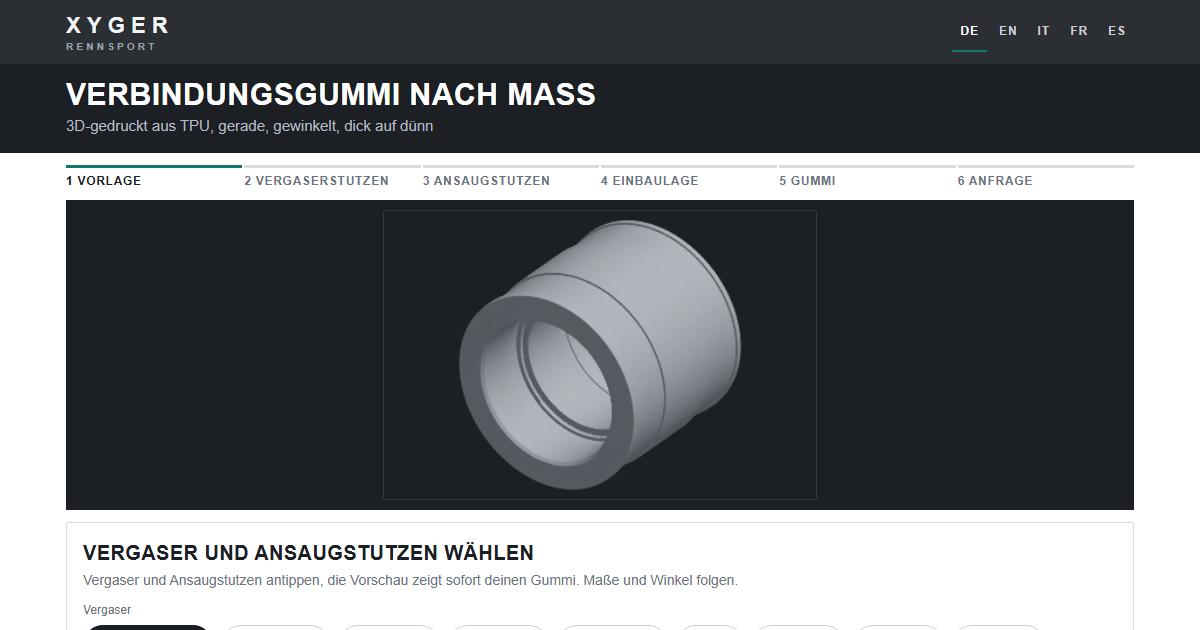
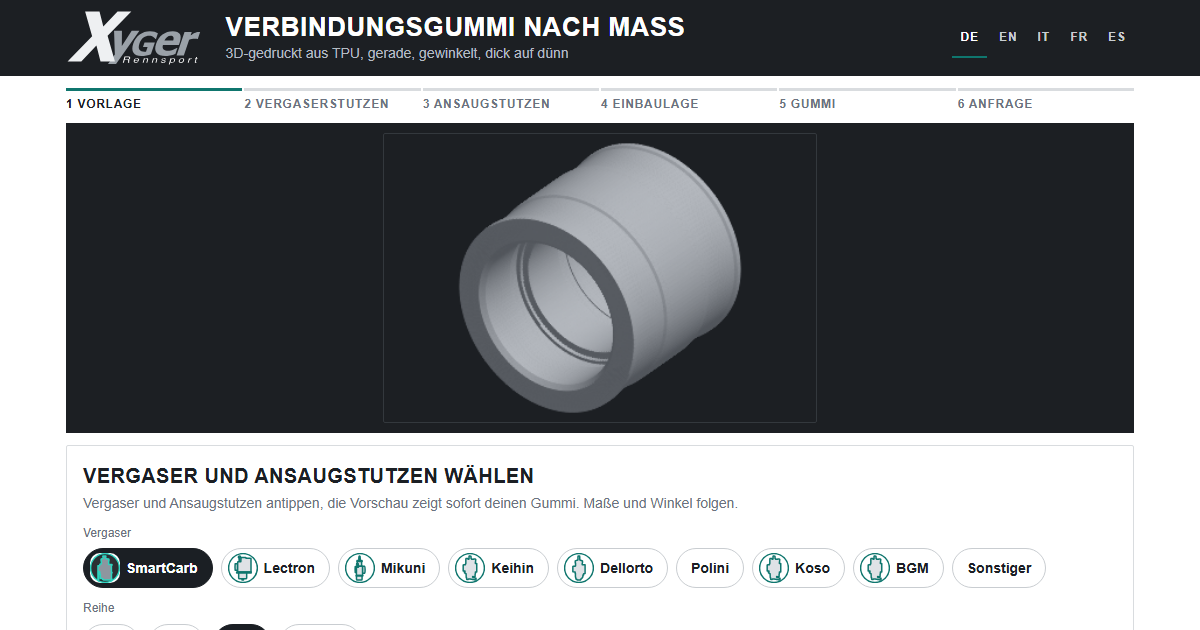
Konfigurator v0.9.2

diff --git a/index.html b/index.html
@@ -2,7 +2,7 @@
 <html lang="de">
 <head>
 <meta charset="utf-8">
-<meta http-equiv="Content-Security-Policy" content="default-src 'none'; script-src 'sha256-vga0Qbs3kaFVj6at8ka0Zfz+H+jQM6mNUO3aztB4lKg='; style-src 'unsafe-inline'; img-src 'self' data: blob:; connect-src 'none'; font-src 'none'; object-src 'none'; base-uri 'none'; form-action 'none'; manifest-src 'none'">
+<meta http-equiv="Content-Security-Policy" content="default-src 'none'; script-src 'sha256-l+T1MfnZsKEYd0gBcOxUXVGedtwf+xFLi9V3k8qSGuo='; style-src 'unsafe-inline'; img-src 'self' data: blob:; connect-src 'none'; font-src 'none'; object-src 'none'; base-uri 'none'; form-action 'none'; manifest-src 'none'">
 <meta name="referrer" content="no-referrer">
 <meta name="viewport" content="width=device-width, initial-scale=1">
 <meta name="robots" content="index, follow">
@@ -13,7 +13,7 @@
 <meta property="og:description" content="Verbindungsgummi nach Maß aus TPU für SmartCarb, Mikuni, Keihin, Lectron und Dellorto. Gerade, gewinkelt, dick auf dünn. Online konfigurieren mit 3D-Vorschau."><meta property="og:image" content="https://polinizei.github.io/ansauggummi/og.png"><meta property="og:locale" content="de_DE">
 <meta name="twitter:card" content="summary_large_image">
 <script type="application/ld+json">[{"@context": "https://schema.org", "@type": "Service", "name": "Verbindungsgummi nach Maß", "serviceType": "3D-gedruckter Vergaser-Verbindungsgummi aus TPU", "provider": {"@type": "Organization", "name": "Xyger Rennsport"}, "areaServed": "Europe", "url": "https://polinizei.github.io/ansauggummi/", "description": "Verbindungsgummi nach Maß aus TPU für SmartCarb, Mikuni, Keihin, Lectron und Dellorto. Gerade, gewinkelt, dick auf dünn. Online konfigurieren mit 3D-Vorschau.", "audience": {"@type": "Audience", "audienceType": "Zweitakt- und Vespa-Tuning"}}, {"@context": "https://schema.org", "@type": "FAQPage", "mainEntity": [{"@type": "Question", "name": "Was ist ein Verbindungsgummi?", "acceptedAnswer": {"@type": "Answer", "text": "Auch Vergasergummi oder Ansaugmanschette genannt. Er verbindet den Vergaser mit dem Ansaugstutzen des Motors und dichtet gegen Nebenluft ab."}}, {"@type": "Question", "name": "Warum TPU statt Gummi?", "acceptedAnswer": {"@type": "Answer", "text": "TPU ist flexibel, kraftstoffbeständig und lässt sich exakt nach deinen Maßen drucken, auch mit Winkel und Übergang von dick auf dünn."}}, {"@type": "Question", "name": "Passt das für SmartCarb auf Quattrini M200S?", "acceptedAnswer": {"@type": "Answer", "text": "Ja, diese Paarung ist im Konfigurator voreingestellt. Du misst nur, was abweicht."}}, {"@type": "Question", "name": "Welche Winkel sind möglich?", "acceptedAnswer": {"@type": "Answer", "text": "Gerade, 7,5°, 19° oder frei bis 40°. Größere Winkel nur mit Stützmaterial im Druck."}}, {"@type": "Question", "name": "Was brauche ich zum Messen?", "acceptedAnswer": {"@type": "Answer", "text": "Einen Messschieber. Außen-Ø, Stutzenlänge sowie Lage, Breite und Tiefe der Nut, jeweils auf 0,1 mm."}}]}]</script>
-<!-- XAG Konfigurator v0.9.0 | 2026-10-15 | _personal/xyger/ansauggummi/konfigurator.html -->
+<!-- XAG Konfigurator v0.9.2 | 2026-10-15 | _personal/xyger/ansauggummi/konfigurator.html -->
 <style>
   :root{
     --bg:#f4f5f7; --card:#ffffff; --ink:#1b1f24; --muted:#6b7280; --line:#e2e5ea;
@@ -76,15 +76,17 @@
   .preview.m-stamp svg{margin:0}
   .preview.m-stamp #c3d{cursor:zoom-in}
   #c3dClose{position:absolute;top:12px;right:6px;z-index:3;min-height:32px;padding:4px 12px}
-  @media(min-width:900px){ .preview.m-duo{grid-template-columns:minmax(0,1fr)} .preview.m-start #c3d,.preview.m-big #c3d{width:100%} .preview.m-stamp{grid-template-columns:minmax(0,1fr) 20%} #c3dClose{top:6px} }
+  @media(min-width:900px) and (max-width:1279px){ .preview.m-duo{grid-template-columns:minmax(0,1fr)} }
+  @media(min-width:1280px){ html body .wrap, html body .bar .in, html body .band .in{max-width:1500px} html body .wrap:has(.preview.m-duo){grid-template-columns:minmax(0,420px) minmax(0,1fr)} }   /* breit: Formular, Schnitt, 3D nebeneinander */
+  @media(min-width:900px){ .preview.m-start #c3d,.preview.m-big #c3d{width:100%} .preview.m-stamp{grid-template-columns:minmax(0,1fr) 20%} #c3dClose{top:6px} }
 
   /* ---------- Layout v0.9.0: dunkler Kopf, Bühne, eckig, schmale fette Schrift, Pillen, ein Akzent ---------- */
   :root{ --bar:#2b2f33; --bar-ink:#f2f3f4; --stage:#1c1f23; --bg:#ffffff; --card:#ffffff; --line:#d9dcdf; --fill:#dfe2e6; }
   body{ font-family:"Roboto Condensed","Arial Narrow",system-ui,sans-serif; font-stretch:condensed; padding-bottom:0; }
   .bar{ background:var(--bar); color:var(--bar-ink); position:sticky; top:0; z-index:10 }
   .bar .in{ max-width:1100px; margin:0 auto; padding:0 16px; height:64px; display:flex; align-items:center; justify-content:space-between }
-  .brand{ font-weight:700; font-size:22px; letter-spacing:.28em; text-transform:uppercase }
-  .brand small{ display:block; font-size:10px; letter-spacing:.32em; color:#9aa1a8; font-weight:600; margin-top:-2px }
+  .brand svg{ display:block; height:56px; width:auto; max-width:none; margin:0; background:none; border-radius:0 }   /* Logo Xyger Rennsport, helle Variante aus Xyger Rennsport_Final.pdf */
+  @media(max-width:899px){ .brand svg{ height:46px } }
   .bar .lang button{ background:transparent; border:0; color:#c9cdd1; font-weight:700; letter-spacing:.08em; min-height:40px; border-radius:0; border-bottom:2px solid transparent }
   .bar .lang button[aria-pressed="true"]{ color:#fff; background:transparent; border-bottom-color:var(--accent) }
   .band{ background:var(--stage); color:#fff; }
@@ -122,12 +124,18 @@
   .seo details{border-top:1px solid var(--line);padding:8px 0} .seo summary{cursor:pointer;font-weight:700;color:var(--ink)} .seo details p{margin:6px 0 0}
   .summary{overflow-wrap:anywhere}
   @media(min-width:900px){ .wrap:has(#preview[hidden]) .card, .wrap:has(#preview[hidden]) .nav{ grid-column:1/-1; width:100%; max-width:760px } }   /* Schritt 6 ohne Vorschau: volle Breite */
+  /* Kopf v0.9.2: ein dunkler Balken mit Logo, Titel und Sprachen */
+  .bar{ background:var(--stage); position:static }
+  .bar .in{ height:auto; min-height:76px; padding:8px 16px; gap:24px; flex-wrap:wrap }
+  .bar .head{ flex:1 1 300px; min-width:0 }
+  .bar .head h1{ font-size:26px; line-height:1.1; font-weight:700; text-transform:uppercase; letter-spacing:.02em; color:#fff; margin:0 }
+  .bar .head .tagline{ color:#b5bcc3; font-size:14px; margin:2px 0 0 }
+  @media(max-width:899px){ .bar .in{ gap:6px 12px } .bar .head{ order:3; flex-basis:100%; padding-bottom:4px } .bar .lang{ margin-left:auto } .bar .head h1{ font-size:21px } }
   [hidden]{display:none!important}
 </style>
 </head>
 <body>
-<header class="bar"><div class="in"><div class="brand">Xyger<small>Rennsport</small></div><div class="lang" id="lang"><button data-l="de">DE</button><button data-l="en">EN</button><button data-l="it">IT</button><button data-l="fr">FR</button><button data-l="es">ES</button></div></div></header>
-<div class="band"><div class="in"><h1 data-i="title"></h1><p class="tagline" data-i="tag"></p><p class="tagline" id="linkInfo" hidden></p></div></div>
+<header class="bar"><div class="in"><div class="brand"><svg role="img" aria-label="Xyger Rennsport" xmlns="http://www.w3.org/2000/svg" xmlns:xlink="http://www.w3.org/1999/xlink" version="1.1" viewBox="262 228 276 114"><defs><path id="font_1_42" d="M.6826172 .04107666C.6507161 .028045655 .60929366 .015335083 .5583496 .0029449464 .5074056-.009435018 .457194-.015625 .40771485-.015625 .29345704-.015625 .20239258 .01735433 .13452149 .08331299 .06665039 .14927165 .032714845 .24283855 .032714845 .36401368 .032714845 .47801719 .06665039 .5693817 .13452149 .6381073 .20239258 .7068431 .2952474 .74121096 .41308595 .74121096 .47395835 .74121096 .5234375 .7354431 .56152346 .7239075 .5996094 .712382 .6389974 .69671127 .6796875 .67689517V.50683596H.66308596C.6542969 .51364138 .6416829 .52327987 .62524417 .53575137 .60880538 .54822286 .59277346 .5588277 .57714846 .5675659 .55891928 .5779317 .5378418 .58683779 .513916 .59428408 .48999024 .60174056 .464681 .60546877 .43798829 .60546877 .40673829 .60546877 .37825523 .6005707 .35253907 .59077456 .3268229 .5809784 .3038737 .5659587 .2836914 .54571536 .2644857 .52612307 .24926758 .5013072 .23803711 .4712677 .22680664 .4412384 .2211914 .40630595 .2211914 .36647035 .2211914 .2812551 .24251302 .21840413 .28515626 .17791748 .32779948 .13743083 .38606773 .1171875 .45996095 .1171875 .46647135 .1171875 .4741211 .11735026 .48291017 .11767578 .49169923 .118001308 .49934898 .118489589 .5058594 .119140628V.26171876H.3647461V.39941407H.6826172V.04107666Z"/><path id="font_1_72" d="M.3461914-.0146484379C.24267578-.0146484379 .16333008 .010131836 .1081543 .059692384 .052978517 .10925293 .025390625 .17985027 .025390625 .27148438 .025390625 .36114503 .05110677 .43271385 .10253906 .4861908 .15397136 .5396678 .22591146 .56640627 .31835938 .56640627 .40234376 .56640627 .46549479 .54374697 .5078125 .49842835 .5501302 .4531199 .57128909 .38824464 .57128909 .3038025V.2421875H.19677735C.19840496 .21661377 .20377605 .19521587 .21289063 .17799378 .2220052 .16078186 .23404949 .14709473 .24902344 .13693238 .26367188 .12675984 .28076173 .11946106 .30029298 .11503601 .31982423 .11061096 .34114585 .10839844 .3642578 .10839844 .3841146 .10839844 .40364585 .11061096 .42285157 .11503601 .44205729 .11947123 .4596354 .125295 .47558595 .13250733 .48958335 .13874309 .50252279 .14546712 .5144043 .15267945 .5262858 .15990193 .53597006 .16630046 .54345706 .171875H.56152346V.030761719C.54752609 .025227866 .5347493 .020100913 .52319338 .015380859 .5116374 .010660808 .49576823 .005859375 .47558595 .0009765625 .45703126-.00390625 .4379069-.0077311198 .4182129-.010498047 .3985189-.013264974 .37451173-.0146484379 .3461914-.0146484379M.40283204 .34570313C.40185548 .3819987 .3934733 .4096273 .37768556 .42858888 .3618978 .44755046 .33772788 .45703126 .30517579 .45703126 .27197267 .45703126 .24601238 .4470571 .22729492 .42710877 .20857747 .40717063 .19824219 .3800354 .19628906 .34570313H.40283204Z"/><path id="font_1_85" d="M.43359376 .38671876H.4194336C.4129232 .3889974 .40348307 .3907064 .39111329 .3918457 .3787435 .39298503 .36507163 .3935547 .35009767 .3935547 .332194 .3935547 .31339518 .39095054 .29370118 .3857422 .27400718 .38053385 .2548828 .37434898 .23632813 .3671875V0H.06542969V.5488281H.23632813V.47013856C.24414063 .47731019 .2549642 .48635356 .26879884 .49726869 .28263346 .5081838 .2952474 .51689657 .30664063 .523407 .3190104 .5309041 .3334147 .53733828 .34985353 .54270938 .36629234 .54809066 .38183595 .55078127 .39648438 .55078127 .40201823 .55078127 .40820313 .55061849 .41503907 .55029299 .421875 .54996749 .4280599 .5494792 .43359376 .5488281V.38671876Z"/><path id="font_1_92" d="M.5776367 .5488281 .30078126-.20117188H.1171875L.20019531 .013320923-.0009765625 .5488281H.17871094L.2939453 .20484925 .40185548 .5488281H.5776367Z"/><path id="font_1_59" d="M.69091799 0H.4790039L.33935548 .23208618 .19677735 0H-.0053710939L.23046875 .36645509 .00390625 .72753909H.21533203L.3461914 .5081482 .48046876 .72753909H.68310549L.45507813 .3737793 .69091799 0Z"/><path id="font_2_51" d="M.2539978 .31399537H.49299623C.55799868 .31399537 .59399417 .28799439 .59399417 .23899842 .59399417 .22200012 .59098818 .20098877 .58599856 .1789856 .56199648 .07899475 .56199648 .07899475 .56199648 .04699707 .56199648 .0309906 .5629883 .019989014 .56599429 0H.67900088L.6839905 .022994996C.67099 .034988405 .6629944 .053985597 .6629944 .07598877 .6629944 .08699036 .6649933 .10398865 .6689911 .12599182 .6879883 .23098755 .6899872 .24398804 .6899872 .2639923 .6899872 .30899049 .6769867 .32899476 .6299896 .3600006 .6689911 .38198854 .68499758 .3929901 .7029877 .40899659 .7429962 .44599916 .769989 .5130005 .769989 .57499697 .769989 .68099978 .71199038 .72898867 .58399966 .72898867H.24798584L.09298706 0H.18699646L.2539978 .31399537M.2709961 .3959961 .32499696 .6469879H.5549927C.60798647 .6469879 .6339874 .6399994 .6529999 .61898806 .66600039 .6049957 .673996 .58200076 .673996 .55799868 .673996 .519989 .6599884 .47698976 .6380005 .44898988 .60899356 .41299439 .56599429 .3959961 .5019989 .3959961H.2709961Z"/><path id="font_2_1" d=""/><path id="font_2_70" d="M.5629883 .23399353C.57699587 .31199647 .5799866 .33599855 .5799866 .36799623 .5799866 .46499635 .49699403 .5389862 .3889923 .5389862 .3019867 .5389862 .21899414 .49798585 .16799927 .43099977 .12098694 .36799623 .083999637 .25498963 .083999637 .17298889 .083999637 .11898804 .10798645 .06399536 .1459961 .026992798 .18099976-.007003784 .22499085-.023010254 .28199769-.023010254 .4019928-.023010254 .5049896 .050994874 .5359955 .15899658H.45199586C.41600038 .08999634 .36299134 .053985597 .29599 .053985597 .21699524 .053985597 .17199707 .102996829 .17199707 .18798828 .17199707 .20999146 .17298889 .21899414 .1769867 .23399353H.5629883M.19499207 .30599977C.22099304 .397995 .29499818 .46199037 .37599183 .46199037 .44699098 .46199037 .49198915 .4139862 .49198915 .33898927 .49198915 .32998658 .4909973 .32199098 .4889984 .30599977H.19499207Z"/><path id="font_2_79" d="M.18099976 .5239868 .069992069 0H.1539917L.21499634 .2889862C.23899842 .39898683 .30899049 .46699525 .39898683 .46699525 .44898988 .46699525 .48599244 .43199159 .48599244 .38598634 .48599244 .37998963 .48399354 .3659973 .47999574 .34899903L.4059906 0H.48999024L.56999209 .37599183C.57299807 .3889923 .57398989 .40098573 .57398989 .4139862 .57398989 .48999024 .5209961 .5389862 .43798829 .5389862 .3619995 .5389862 .29599 .5119934 .24398804 .45899964L.25698854 .5239868H.18099976Z"/><path id="font_2_84" d="M.5139923 .37799073C.5189972 .39898683 .519989 .4079895 .519989 .42099 .519989 .4909973 .45399476 .5389862 .35598756 .5389862 .2849884 .5389862 .22399903 .5179901 .18299866 .47898866 .1459961 .44400025 .12298584 .3919983 .12298584 .34498597 .12298584 .28399659 .1579895 .25498963 .26098634 .22799683L.33499146 .20899964C.36799623 .19999695 .3829956 .19400025 .3919983 .18299866 .39898683 .17399597 .40499879 .15899658 .40499879 .1499939 .40499879 .1309967 .3899994 .100997928 .37298585 .08799744 .34799195 .066986087 .30499269 .053985597 .2619934 .053985597 .19198609 .053985597 .1539917 .08099365 .1539917 .1309967 .1539917 .13699341 .15499878 .1459961 .1559906 .1559906H.066986087C.06199646 .1329956 .06098938 .12098694 .06098938 .10499573 .06098938 .024993897 .12998963-.023010254 .24699402-.023010254 .3959961-.023010254 .49299623 .053985597 .49299623 .17298889 .49299623 .23399353 .45999146 .2659912 .37199403 .28799439L.29599 .30699159C.23999024 .32099916 .21099854 .34098817 .21099854 .36698915 .21099854 .3869934 .22299195 .4119873 .24099732 .42900086 .2649994 .45199586 .29499818 .46199037 .33898927 .46199037 .397995 .46199037 .43099977 .43998719 .43099977 .3999939 .43099977 .3939972 .43099977 .38598634 .42999269 .37799073H.5139923Z"/><path id="font_2_81" d="M.0069885256-.2130127H.09098816L.15098572 .067993167C.18199158 .0029907227 .22299195-.023010254 .2939911-.023010254 .37199403-.023010254 .44699098 .0129852299 .49798585 .07499695 .5519867 .14199829 .58599856 .24499512 .58599856 .34399415 .58599856 .46398927 .5189972 .5389862 .4119873 .5389862 .33399964 .5389862 .2539978 .49598695 .22698975 .43998719L.24499512 .5239868H.1639862L.0069885256-.2130127M.3789978 .46199037C.45399476 .46199037 .49798585 .41099549 .49798585 .32398988 .49798585 .2689972 .48098756 .20498657 .45399476 .15499878 .4169922 .08699036 .36698915 .053985597 .3019867 .053985597 .22799683 .053985597 .18299866 .10398865 .18299866 .18399048 .18299866 .24398804 .19999695 .30899049 .22999573 .36099244 .2669983 .42799378 .31698609 .46199037 .3789978 .46199037Z"/><path id="font_2_80" d="M.38398744 .5389862C.29100038 .5389862 .20899964 .49699403 .1579895 .4229889 .11299133 .35899354 .07998657 .24899292 .07998657 .1639862 .07998657 .052993776 .15699768-.023010254 .2689972-.023010254 .36499024-.023010254 .44099427 .015991211 .49699403 .09298706 .54299929 .1559906 .57598879 .2649994 .57598879 .35198976 .57598879 .40499879 .55599978 .45599366 .5209961 .48999024 .4869995 .522995 .44198609 .5389862 .38398744 .5389862M.37098695 .46199037C.44499208 .46199037 .48799134 .4149933 .48799134 .33299256 .48799134 .27398683 .47200013 .20899964 .44400025 .15899658 .4059906 .08999634 .35198976 .053985597 .2829895 .053985597 .21199036 .053985597 .16799927 .102996829 .16799927 .18399048 .16799927 .24198914 .18499756 .30699159 .21199036 .35699464 .24798584 .4249878 .30499269 .46199037 .37098695 .46199037Z"/><path id="font_2_83" d="M.17999268 .5239868 .068984989 0H.15299988L.21099854 .27198792C.23699951 .3939972 .30799867 .45498658 .41799928 .45098878L.43598939 .5359955C.4229889 .5379944 .4149933 .5389862 .4039917 .5389862 .34599305 .5389862 .3019867 .5130005 .23899842 .44198609L.2559967 .5239868H.17999268Z"/><path id="font_2_85" d="M.3659973 .5239868H.2769928L.30799867 .66799929H.22399903L.19299317 .5239868H.12199402L.10798645 .45700074H.1789856L.099990848 .08699036C.09799194 .07699585 .09700012 .06599426 .09700012 .055999757 .09700012 .0069885256 .1309967-.023010254 .18598938-.023010254 .20698548-.023010254 .23599243-.020004273 .25099183-.01600647L.2669983 .056991579C.23399353 .04899597 .23199463 .04899597 .21899414 .04899597 .19699097 .04899597 .18299866 .05999756 .18299866 .07598877 .18299866 .07899475 .18399048 .083999637 .18499756 .08999634L.2630005 .45700074H.35198976L.3659973 .5239868Z"/></defs><use data-text="G" xlink:href="#font_1_42" transform="matrix(66.42141,0,22.717597,-66.96,388.55085,320.7599)" fill="#9aa1a8"/><use data-text="e" xlink:href="#font_1_72" transform="matrix(86.34787,0,29.53258,-87.00001,435.2308,320.39988)" fill="#9aa1a8"/><path transform="matrix(0,.12,.12,0,0,0)" d="M3495 4490.92 2798 4234.92 1712 4632.92 3106 5143.92 4191 4745.92 3495 4490.92" fill="none" fill-rule="evenodd"/><use data-text="r" xlink:href="#font_1_85" transform="matrix(86.34787,0,29.53258,-87.00001,481.4308,320.51988)" fill="#9aa1a8"/><path transform="matrix(0,.12,.12,0,0,0)" d="M2296 2376.92 1599 2121.92 514 2519.92 1908 3030.92 2993 2631.92 2296 2376.92" fill="none" fill-rule="evenodd"/><use data-text="y" xlink:href="#font_1_92" transform="matrix(89.19465,0,30.506295,-89.99993,343.19087,319.79988)" fill="#9aa1a8"/><use data-text="X" xlink:href="#font_1_59" transform="matrix(138.53647,0,47.38238,-140.04029,265.9109,332.75987)" fill="#eef0f2"/><use data-text="R" xlink:href="#font_2_51" transform="matrix(22.292403,0,0,-17.039994,375.59086,335.27986)" fill="#ffffff"/><use data-text=" " xlink:href="#font_2_1" transform="matrix(22.292403,0,0,-17.039994,391.67088,335.27986)" fill="#ffffff"/><use data-text="e" xlink:href="#font_2_70" transform="matrix(22.292403,0,0,-17.039994,397.9109,335.27986)" fill="#ffffff"/><use data-text=" " xlink:href="#font_2_1" transform="matrix(22.292403,0,0,-17.039994,410.27088,335.27986)" fill="#ffffff"/><use data-text="n" xlink:href="#font_2_79" transform="matrix(22.292403,0,0,-17.039994,416.5109,335.27986)" fill="#ffffff"/><use data-text=" " xlink:href="#font_2_1" transform="matrix(22.292403,0,0,-17.039994,428.8709,335.27986)" fill="#ffffff"/><use data-text="n" xlink:href="#font_2_79" transform="matrix(22.292403,0,0,-17.039994,435.11094,335.27986)" fill="#ffffff"/><use data-text=" " xlink:href="#font_2_1" transform="matrix(22.292403,0,0,-17.039994,447.47096,335.27986)" fill="#ffffff"/><use data-text="s" xlink:href="#font_2_84" transform="matrix(22.292403,0,0,-17.039994,453.71098,335.27986)" fill="#ffffff"/><use data-text=" " xlink:href="#font_2_1" transform="matrix(22.292403,0,0,-17.039994,464.87098,335.27986)" fill="#ffffff"/><use data-text="p" xlink:href="#font_2_81" transform="matrix(22.292403,0,0,-17.039994,471.111,335.27986)" fill="#ffffff"/><use data-text=" " xlink:href="#font_2_1" transform="matrix(22.292403,0,0,-17.039994,483.47099,335.27986)" fill="#ffffff"/><use data-text="o" xlink:href="#font_2_80" transform="matrix(22.292403,0,0,-17.039994,489.711,335.27986)" fill="#ffffff"/><use data-text=" " xlink:href="#font_2_1" transform="matrix(22.292403,0,0,-17.039994,502.071,335.27986)" fill="#ffffff"/><use data-text="r" xlink:href="#font_2_83" transform="matrix(22.292403,0,0,-17.039994,508.31105,335.27986)" fill="#ffffff"/><use data-text=" " xlink:href="#font_2_1" transform="matrix(22.292403,0,0,-17.039994,515.75106,335.27986)" fill="#ffffff"/><use data-text="t" xlink:href="#font_2_85" transform="matrix(22.292403,0,0,-17.039994,521.991,335.27986)" fill="#ffffff"/></svg></div><div class="head"><h1 data-i="title"></h1><p class="tagline" data-i="tag"></p><p class="tagline" id="linkInfo" hidden></p></div><div class="lang" id="lang"><button data-l="de">DE</button><button data-l="en">EN</button><button data-l="it">IT</button><button data-l="fr">FR</button><button data-l="es">ES</button></div></div></header>
 <div class="wrap">
   <div class="top"></div>
   <div class="steps" id="steps"></div>
@@ -224,7 +232,7 @@ const FAB = { oversize:0.2,      // Druck-Übermaß auf den Stutzen-Ø (nur Druc
   wall:[5, 5.75, 6.5],           // Wandstärke weich / mittel / hart
   clamp:[9, 12],                 // Schellennut-Breite schmal / breit
   clampDepth:0.55, lipW:1.5,     // Schellennut-Tiefe, Endwulst-Breite
-  fase:0.5,                      // Einführfase innen an beiden Enden
+  fase:1.0,                      // Einführfase innen an beiden Enden (zum Aufstecken)
   lipPct:0.6, lipMax:0.6,        // Dichtlippe: Anteil der Nuttiefe, Höchstmaß
   lipInset:0.2,                  // Lippe je Seite schmaler als die Nut
   wulstPlay:0.2,                 // Spiel der Wulst-Nut im Gummi (Tiefe), Breite + 0,1 je Seite zusätzlich
@@ -386,9 +394,10 @@ function gummi(Ain, Bin){
   const RA=rA+w, RB=rB+w, RLA=RA+LIP.h, RLB=RB+LIP.h, cw=CLAMP[S.clamp];     // Wand folgt dem Stutzen-Ø je Seite
   const bA=tA+Math.max(0,rA-rSA), bB=Math.max(bA, L-tB);                        // Biegezone: nach dem 45°-Konus der Vergaserseite bis Steckbereich Motor
   const E=LIP.w+LIP.h/kBend(a);                                                   // Motorseite: Endlippe bleibt 1,5 breit, Platz für die Fase der Schellennut
-  let z1=Math.max(LIP.w+cw, bA), z2=Math.min(L-E-cw, bB); if(z2<z1) z1=z2=(z1+z2)/2;
+  const h=LIP.h;                                                                  // Schellennut: beide Flanken 45°, Nutgrund = Schellenbreite
+  let z1=Math.max(LIP.w+2*h+cw, bA), z2=Math.min(L-E-cw-h, bB); if(z2<z1) z1=z2=(z1+z2)/2;
   // Schellennut außen: Breite = Schellenbreite am Nutgrund, beginnt nach dem Endwulst
-  const outer=fix45([[0,RLA],[LIP.w,RLA],[LIP.w,RA],[LIP.w+cw,RA],[LIP.w+cw,RLA],[z1,RLA],[z2,RLB],[L-E-cw,RLB],[L-E-cw,RB],[L-E,RB],[L-E,RLB],[L,RLB]], +1, bA, a, L);
+  const outer=fix45([[0,RLA],[LIP.w,RLA],[LIP.w+h,RA],[LIP.w+h+cw,RA],[LIP.w+2*h+cw,RLA],[z1,RLA],[z2,RLB],[L-E-cw-h,RLB],[L-E-cw,RB],[L-E,RB],[L-E,RLB],[L,RLB]], +1, bA, a, L);
   const inner=fix45([[0,rA+FAB.fase],[FAB.fase,rA],...lipPts(A,rA,c=>tA-c),[tA,rA],[tA,rSA],[L-tB,rSB],[L-tB,rB],...lipPts(B,rB,c=>L-tB+c),[L-FAB.fase,rB],[L,rB+FAB.fase]], -1, bA, a, L);
   return {pts:[...outer,...inner.reverse()], RL:Math.max(RLA,RLB), RLA, RLB, rA, rB, rSA, rSB, tA, tB, L, bA, bB, cw};
 }
@@ -598,7 +607,7 @@ function drawGummi(svg){
   let s=DEFS+axis(M,ax)+poly(M,top,SOLID)+poly(M,bot,SOLID);
   s+=poly(M,ghostA,GHOST)+poly(M,ghostB,GHOST);
   s+=dim(M,"L",0,P.RL+5,P.L,P.RL+5,`${t("total")} ${fmt(P.L)}`);
-  s+=dim(M,"clamp",LIP.w,-P.RLA-2.5,LIP.w+P.cw,-P.RLA-2.5,fmt(P.cw),13);                      // Schellenbreite am Nutgrund
+  s+=dim(M,"clamp",LIP.w+LIP.h,-P.RLA-2.5,LIP.w+LIP.h+P.cw,-P.RLA-2.5,fmt(P.cw),13);                      // Schellenbreite am Nutgrund
   s+=txt(M.X(-2),+M.Y(0)+4,`Ø ${fmt(S.A.d)}`,"end"); const [ex,ey]=Bd(P.L+2,0); s+=txt(M.X(ex),+M.Y(ey)+4,`Ø ${fmt(S.B.d)}`,"start");
   if(a){ const [cx,cy]=Bd(P.L/2,P.RL+1); s+=txt(M.X(cx),M.Y(cy),`${fmt(a)}°`); }
   if(S.shape===1){ const r=P.rSA*0.62, z0=P.bA, z1=Math.max(P.bA+2,P.bB), pl=[]; for(let z=z0;z<=z1;z+=0.5) pl.push(Bd(z,r));   // Herzblatt: abgeflachte Seite angedeutet
